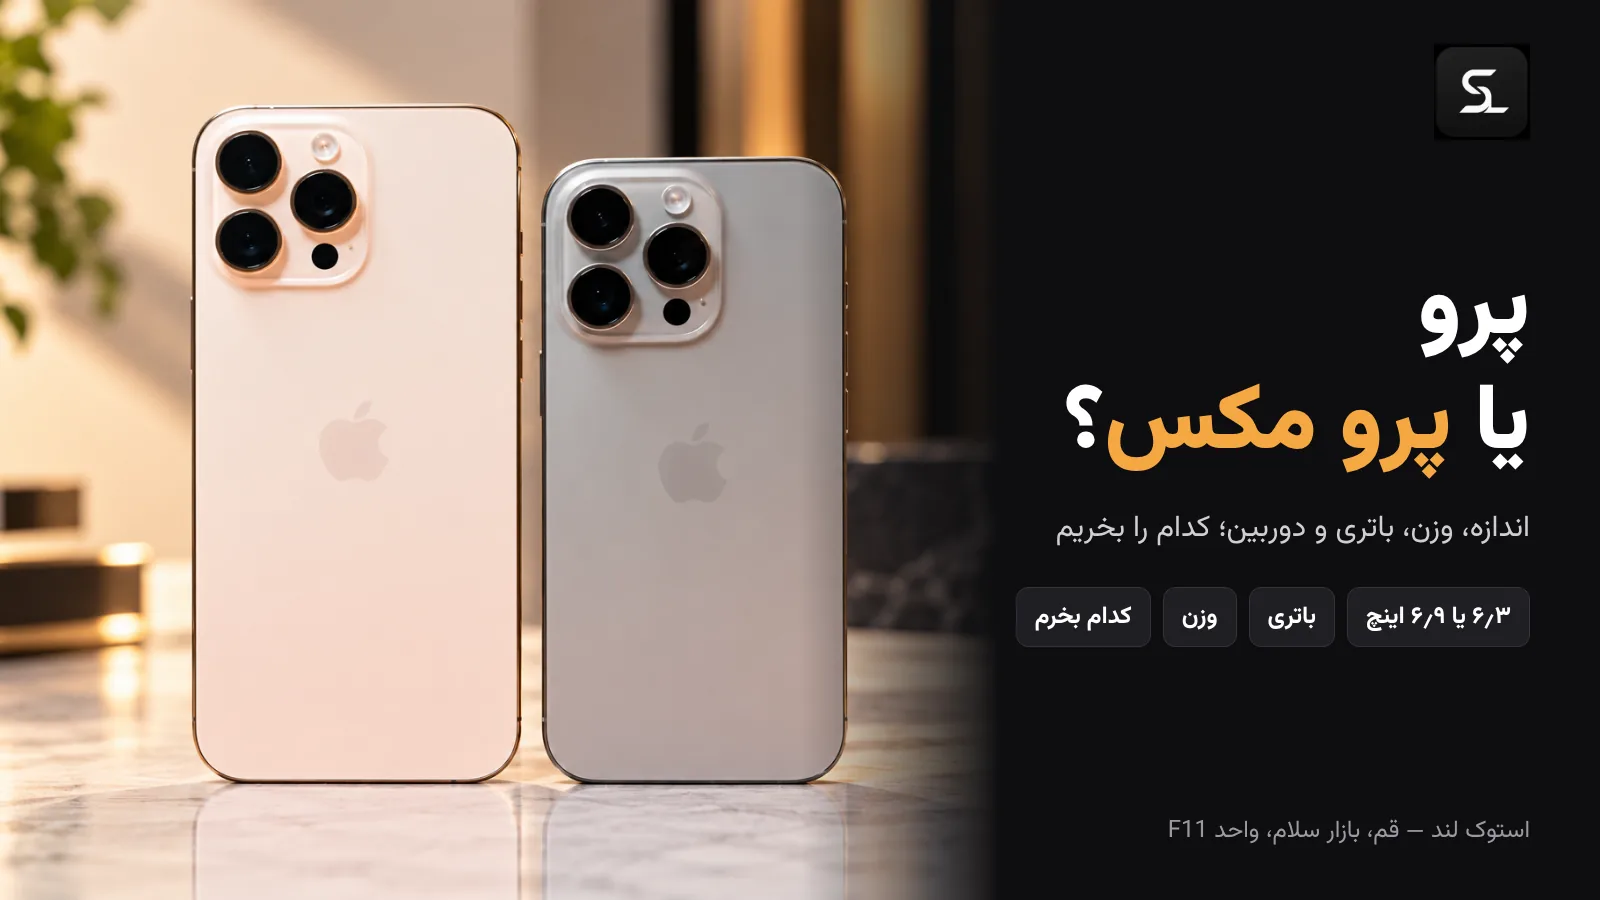
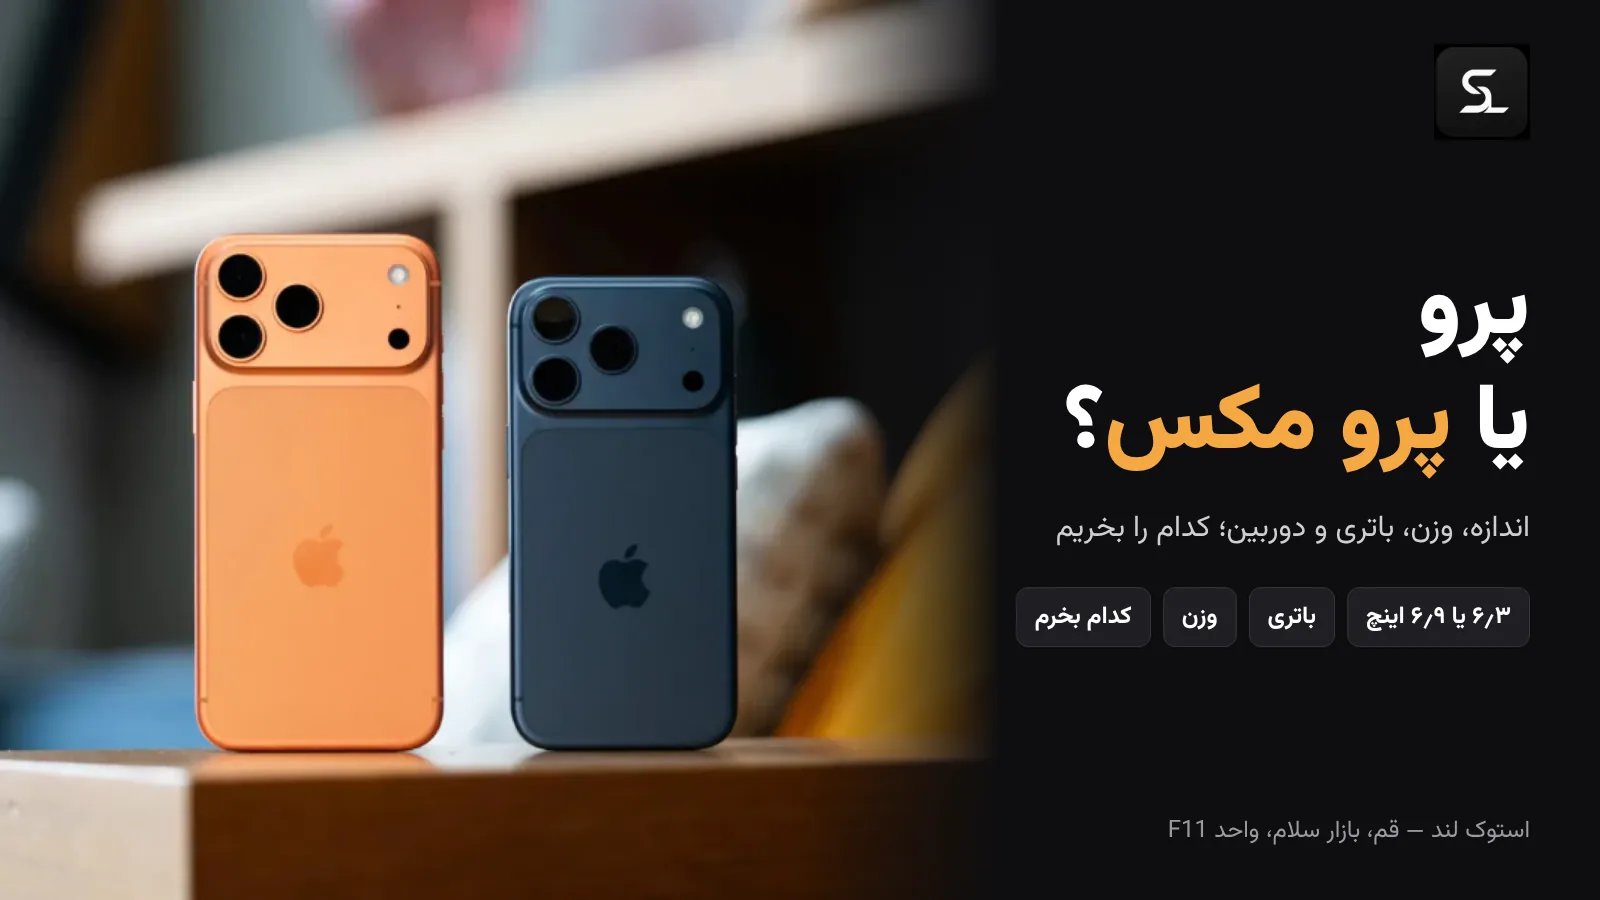
stland-home 1.76.5: Pro vs Pro Max photos replaced with iPhone 17 series
Claude-Session: https://claude.ai/code/session_01ASEs2BAMXxVJrKjyP7y7bp

diff --git a/wp-content/plugins/stland-home/content/posts/pro-vs-pro-max.html b/wp-content/plugins/stland-home/content/posts/pro-vs-pro-max.html
@@ -16,14 +16,16 @@
 <figure class="wp-block-table"><table><thead><tr><th>ویژگی</th><th>آیفون ۱۷ پرو</th><th>آیفون ۱۷ پرو مکس</th></tr></thead><tbody><tr><td>صفحهنمایش</td><td>۶٫۳ اینچ، تا ۱۲۰ هرتز، همیشهروشن</td><td>۶٫۹ اینچ، تا ۱۲۰ هرتز، همیشهروشن</td></tr><tr><td>وزن</td><td>۲۰۴ گرم</td><td>۲۳۱ گرم</td></tr><tr><td>باتری (پخشِ ویدیو)</td><td>تا ۳۱ ساعت</td><td>تا ۳۷ ساعت</td></tr><tr><td>پردازنده</td><td>A19 Pro</td><td>A19 Pro</td></tr><tr><td>دوربینها</td><td>سه دوربینِ ۴۸ مگاپیکسلی، زومِ ۴ برابر</td><td>سه دوربینِ ۴۸ مگاپیکسلی، زومِ ۴ برابر</td></tr><tr><td>حافظه</td><td>۲۵۶ گیگ تا ۱ ترابایت</td><td>۲۵۶ گیگ تا ۲ ترابایت</td></tr></tbody></table></figure>
 <!-- /wp:table -->
 
+{{img:specs}}
+
 <!-- wp:heading {"anchor":"size"} -->
 <h2 class="wp-block-heading" id="size">۲. اندازه و وزن: مهمترین فرق</h2>
 <!-- /wp:heading -->
 
-{{img:size}}
+{{img:hand}}
 
 <!-- wp:paragraph -->
-<p>از نسلِ ۱۶ به بعد، صفحهی پرو <strong>۶٫۳ اینچ</strong> و صفحهی پرو مکس <strong>۶٫۹ اینچ</strong> است. روی کاغذ نیم اینچ است، ولی در دست فرقش زیاد است: پرو مکس حدودِ ۲۷ گرم سنگینتر و پهنتر است و بیشترِ آدمها برای تایپ کردن روی آن از دو دست استفاده میکنند. در عوض، فیلم، بازی، نقشه و خواندنِ متن روی صفحهی بزرگ راحتتر است و برای کسی که چشمش خسته میشود، همین یک دلیلِ کافی است.</p>
+<p>در عکسِ بالا، ۱۷ پروِ سرمهای جلوی ۱۷ پرو مکسِ سفید است و فرقِ اندازه را خوب نشان میدهد. از نسلِ ۱۶ به بعد، صفحهی پرو <strong>۶٫۳ اینچ</strong> و صفحهی پرو مکس <strong>۶٫۹ اینچ</strong> است. روی کاغذ نیم اینچ است، ولی در دست فرقش زیاد است: پرو مکس حدودِ ۲۷ گرم سنگینتر و پهنتر است و بیشترِ آدمها برای تایپ کردن روی آن از دو دست استفاده میکنند. در عوض، فیلم، بازی، نقشه و خواندنِ متن روی صفحهی بزرگ راحتتر است و برای کسی که چشمش خسته میشود، همین یک دلیلِ کافی است.</p>
 <!-- /wp:paragraph -->
 
 <!-- wp:paragraph -->
@@ -50,10 +52,8 @@
 <h2 class="wp-block-heading" id="gens">۵. نسلهای ۱۵، ۱۶ و ۱۷: چه چیزی فرق میکند؟</h2>
 <!-- /wp:heading -->
 
-{{img:display}}
-
 <!-- wp:paragraph -->
-<p>در عکسِ بالا، ۱۶ پرو مکس با صفحهی ۶٫۹ اینچ کنارِ ۱۵ پرو مکس با صفحهی ۶٫۷ اینچ است. پرو مکس از نسلِ ۱۶ بزرگتر شد و در ۱۷ همان اندازه ماند.</p>
+<p>پرو مکس در نسلِ ۱۶ از ۶٫۷ به ۶٫۹ اینچ و پرو از ۶٫۱ به ۶٫۳ اینچ رسید و در ۱۷ همان اندازه ماند.</p>
 <!-- /wp:paragraph -->
 
 <!-- wp:table -->

diff --git a/wp-content/plugins/stland-home/includes/posts.php b/wp-content/plugins/stland-home/includes/posts.php
@@ -16,9 +16,9 @@
 defined( 'ABSPATH' ) || exit;
 
 const STLH_POSTS = [
-	// برنامهی محتوا، روزِ ۱۱ (۸ آبان ۱۴۰۵). سه عکس از صاحب فروشگاه: پرو مکس و پروِ کنارِ هم از پشت (عکسِ اصلی)، ۶٫۳ در برابرِ ۶٫۹
-	// اینچ، و دو پرو مکس در دست (۶٫۹ و ۶٫۷ — یعنی ۱۶ پرو مکس و ۱۵ پرو مکس؛ در بندِ نسلها همین را میگوید). «بقیه عکسِ رسمی خودت»:
-	// جدول و «کدام برای شما» از ما. مشخصات از اعلامِ اپل؛ بی قیمت. «منتشر کن» همان روز (عکسِ دیگری نبود).
+	// برنامهی محتوا، روزِ ۱۱ (۸ آبان ۱۴۰۵). عکسها از صاحب فروشگاه، همه سری ۱۷ (سه عکسِ اولش سری ۱۶ بود و به خواستِ خودش عوض
+	// شد): ۱۷ پرو مکسِ نارنجی و ۱۷ پروِ سرمهای کنارِ هم (عکسِ اصلی)، هر دو در دست (نشانِ مجلهی منبع بریده شد)، و برگهی مشخصات
+	// (خطِ قیمتِ دلاری بریده شد). جدول و «کدام برای شما» از ما. مشخصات از اعلامِ اپل؛ بی قیمت. «منتشر کن» همان روز (عکسِ دیگری نبود).
 	'pro-vs-pro-max' => [
 		'title'    => 'پرو یا پرو مکس؟ فرق آیفون پرو و پرو مکس در اندازه، باتری و دوربین؛ کدام را بخریم',
 		'status'   => 'publish',
@@ -30,11 +30,11 @@ const STLH_POSTS = [
 			'desc'  => 'آیفون پرو یا پرو مکس؟ مقایسه اندازه صفحه، وزن، باتری، دوربین و حافظه در آیفون ۱۷، ۱۶ و ۱۵ پرو و اینکه کدام برای شما مناسبتر است.',
 			'kw'    => 'پرو یا پرو مکس',
 		],
-		'thumb'    => [ 'file' => 'pro-vs-pro-max-hero.webp', 'alt' => 'آیفون پرو مکس و آیفون پرو از پشت کنار هم؛ فرق اندازه' ],
+		'thumb'    => [ 'file' => 'pro-vs-pro-max-hero.webp', 'alt' => 'آیفون ۱۷ پرو مکس نارنجی و آیفون ۱۷ پرو سرمهای کنار هم؛ فرق اندازه' ],
 		'images'   => [
-			'size'    => [ 'file' => 'pro-vs-pro-max-size.webp', 'alt' => 'صفحه ۶٫۳ اینچی آیفون پرو در برابر ۶٫۹ اینچی پرو مکس' ],
+			'hand'    => [ 'file' => 'pro-vs-pro-max-hand.webp', 'alt' => 'آیفون ۱۷ پرو سرمهای جلوی آیفون ۱۷ پرو مکس سفید در دست' ],
+			'specs'   => [ 'file' => 'pro-vs-pro-max-specs.webp', 'alt' => 'مشخصات آیفون ۱۷ پرو و ۱۷ پرو مکس کنار هم' ],
 			'compare' => [ 'file' => 'pro-vs-pro-max-compare.webp', 'alt' => 'جدول مقایسه آیفون ۱۷ پرو و ۱۷ پرو مکس؛ صفحه، وزن، باتری و حافظه' ],
-			'display' => [ 'file' => 'pro-vs-pro-max-display.webp', 'alt' => 'آیفون ۱۶ پرو مکس ۶٫۹ اینچی و ۱۵ پرو مکس ۶٫۷ اینچی در دست' ],
 			'pick'    => [ 'file' => 'pro-vs-pro-max-pick.webp', 'alt' => 'آیفون پرو یا پرو مکس برای چه کسی مناسب است' ],
 		],
 	],

diff --git a/wp-content/plugins/stland-home/stland-home.php b/wp-content/plugins/stland-home/stland-home.php
@@ -2,7 +2,7 @@
 /**
  * Plugin Name:       StockLand Home
  * Description:       صفحه اصلی داینامیک استوک لند — بنر، دستهها، ردیف محصولات، پیشنهاد ویژه، شبکهها، سوالات متداول و مقالات. شورتکد: [stl_home]
- * Version:           1.76.4
+ * Version:           1.76.5
  * Requires at least: 6.3
  * Requires PHP:      8.1
  * Requires Plugins:  woocommerce
@@ -11,7 +11,7 @@
 
 defined( 'ABSPATH' ) || exit;
 
-define( 'STLH_VER', '1.76.4' );
+define( 'STLH_VER', '1.76.5' );
 // نسخهی قرارداد با حسابداری (contract/card-meta.json) — پنلِ سلامتِ حسابداری با آن میسنجد
 define( 'STLH_CONTRACT', 5 );
 define( 'STLH_DIR', plugin_dir_path( __FILE__ ) );

diff --git a/docs/seo-plan.md b/docs/seo-plan.md
@@ -110,7 +110,7 @@
 | ۸ | ۲ آبان | ✅ منتشر شد (۱.۷۳.۰، ۵ آبان، سه روز دیر؛ روی سایت سنجیده شد، شناسهی ۴۵۰۹۳) — «آیفون ۱۵ یا ۱۶؟» با عکسِ اپل (۱۵ سبز و ۱۶ صورتی) و دو طرحِ خودمان؛ «کدام آیفون» به آن لینک میدهد. دو عکسِ ۱۶ پرو که صاحب فروشگاه فرستاد برای روزِ ۱۱ — هنوز در مخزن نیست، دوباره خواسته شود |
 | ۹ | ۳ آبان | ✅ منتشر شد (۱.۷۵.۳، ۶ آبان، سه روز دیر) — «آیفون ۱۳ هنوز ارزش خرید دارد؟» با دو عکسِ فروشگاه (بازتابِ نور گرفته شد) و جدولِ ۱۳/۱۴/۱۵ و چکلیستِ کارکرده؛ «کدام آیفون» به آن لینک میدهد |
 | ۱۰ | ۷ آبان | ✅ منتشر شد (۱.۷۵.۵) — «آیفون ۱۷ چه فرقی با ۱۶ دارد؟» با سه عکسِ صاحب فروشگاه (خودش با ۱۷ پرو و ۱۶ پرو، خانوادهی ۱۷، ۱۷ پروِ سفید و نارنجی) و دو طرحِ ما؛ «آیفون ۱۵ یا ۱۶» به آن لینک میدهد |
-| ۱۱ | ۸ آبان | ✅ منتشر شد (۱.۷۶.۴) — «پرو یا پرو مکس؟» با سه عکسِ صاحب فروشگاه (پشتِ دو گوشی کنارِ هم، ۶٫۳ در برابرِ ۶٫۹، دو پرو مکس در دست) و جدول و «کدام برای شما»ِ ما؛ «آیفون ۱۷ یا ۱۶» به آن لینک میدهد. عکسِ رسمیِ اپل از محیطِ کار در دسترس نبود |
+| ۱۱ | ۸ آبان | ✅ منتشر شد (۱.۷۶.۴)، عکسها در ۱.۷۶.۵ — «پرو یا پرو مکس؟» با سه عکسِ سری ۱۷ از صاحب فروشگاه (۱۷ پرو مکس و ۱۷ پرو کنارِ هم، هر دو در دست، برگهی مشخصات بی خطِ قیمت؛ سه عکسِ اول سری ۱۶ بود و عوض شد) و جدول و «کدام برای شما»ِ ما؛ «آیفون ۱۷ یا ۱۶» به آن لینک میدهد. عکسِ رسمیِ اپل از محیطِ کار در دسترس نبود |
 
 ## روزِ ۷ (۵ آبان ۱۴۰۵، انجام شد در ۱.۷۴.۰)
 

diff --git a/تغییرات.md b/تغییرات.md
@@ -154,3 +154,4 @@
 | ۱۴۰۵/۰۸/۰۹ | مستندات: در `CLAUDE.md` آمد که وردپرسِ دیگری (`golzaripmg.ir`) روی همین هاست است، بیربط به این مخزن، با هاست و سقفِ اتصالِ مشترک | صاحب فروشگاه: «فقط بدون یه همچین دامنهای در هاست هست» | — |
 | ۱۴۰۵/۰۸/۰۸ | `stland-home` ۱.۷۶.۳: پیشنویسِ مقالهی روزِ ۱۱ «پرو یا پرو مکس؟» (`pro-vs-pro-max`): دو جدول (۱۷ پرو/پرو مکس و نسلهای ۱۵ تا ۱۷)، اندازه، باتری، دوربین، ۴ پرسشِ متداول | صاحب فروشگاه سه عکس داد («بقیه عکسِ رسمی خودت استفاده کن») | پیشنویس، منتظرِ «منتشر کن» |
 | ۱۴۰۵/۰۸/۰۸ | `stland-home` ۱.۷۶.۴: انتشارِ «پرو یا پرو مکس؟» (روزِ ۱۱)؛ «آیفون ۱۷ یا ۱۶» به آن لینک میدهد | صاحب فروشگاه: «عکس ندارم… منتشر کن» | منتظر بهروزرسانیِ خودکار |
+| ۱۴۰۵/۰۸/۰۸ | `stland-home` ۱.۷۶.۵: عکسهای «پرو یا پرو مکس؟» با سری ۱۷ عوض شد (عکسِ اصلی، در دست، برگهی مشخصات؛ نشانِ مجلهی منبع و خطِ قیمت بریده شد)؛ دو عکسِ سری ۱۶ برداشته شد | صاحب فروشگاه: «عکسها اشتباه بود، سری ۱۶ بودن… جایگزین کن و خودت ادیت کن» | منتظر بهروزرسانیِ خودکار |
